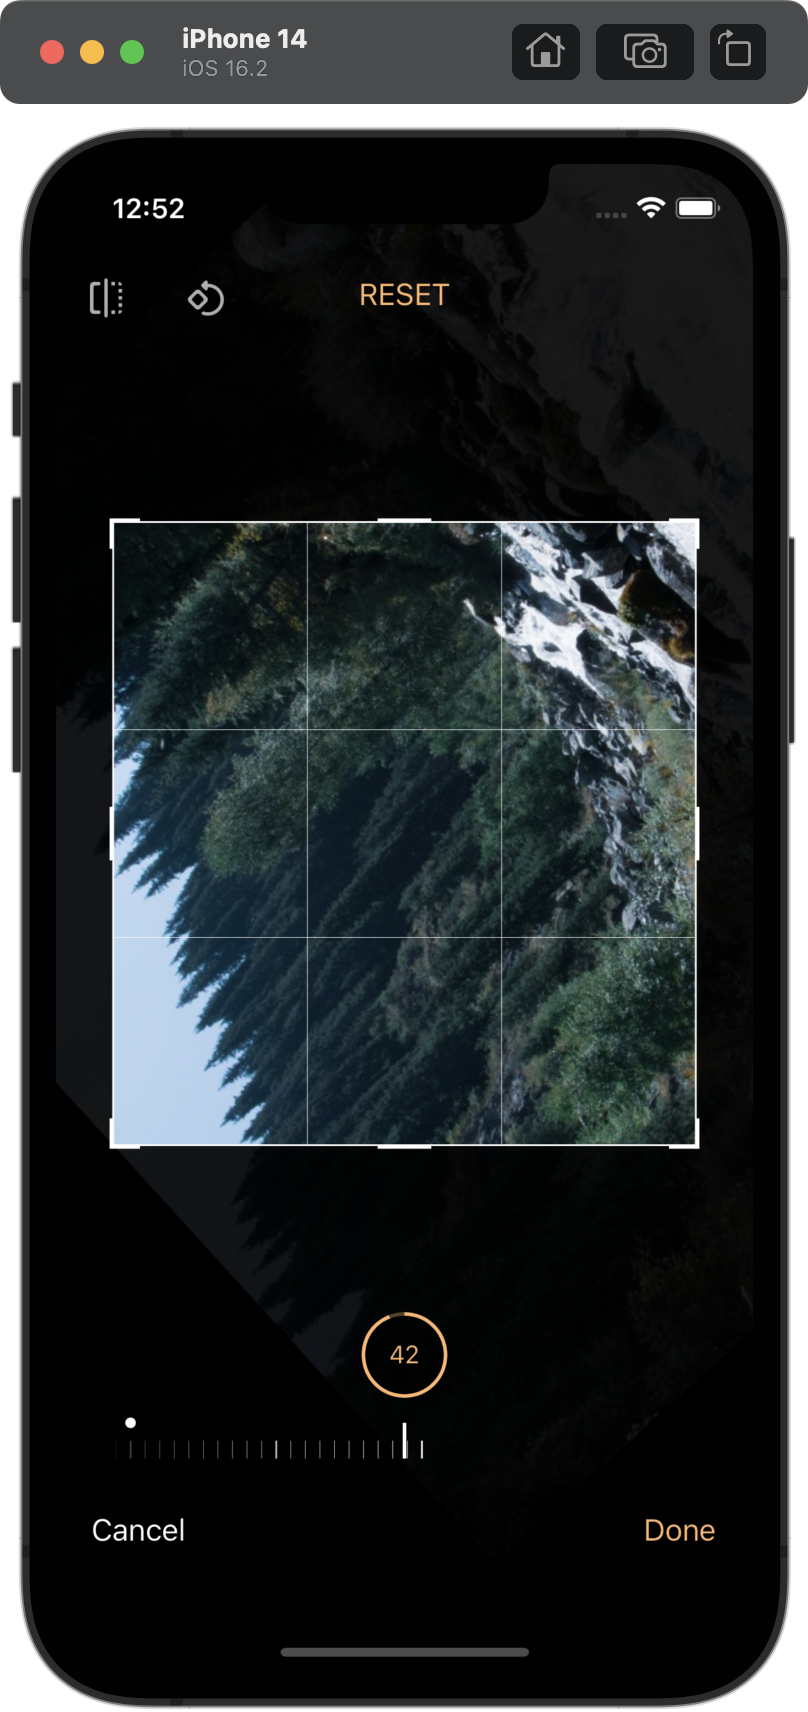
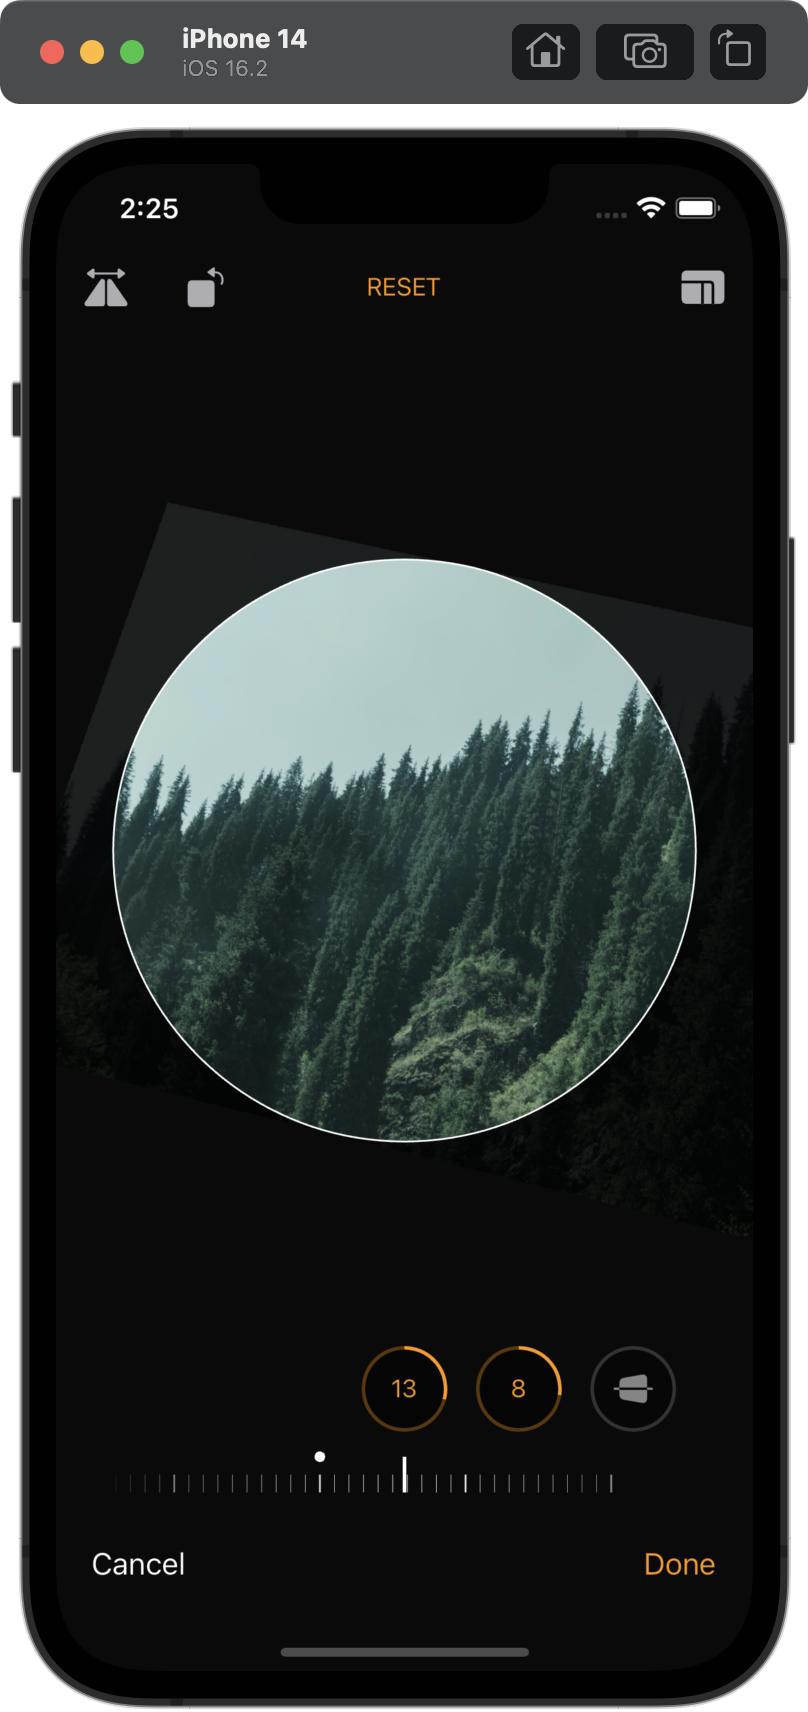
version: 0.1.0

diff --git a/example/lib/main.dart b/example/lib/main.dart
@@ -88,7 +88,7 @@ class _MyHomePageState extends State<MyHomePage> {
             imageProvider: _imageProviders[page],
             heroTag: 'image-$page',
             initialData: _data[page],
-            cropPathFn: starCropShapeFn,
+            cropPathFn: aabbCropShapeFn,
             postProcessFn: (result) async {
               final uiImage = await result.asUiImage;
 

diff --git a/lib/src/widgets/cupertino/toolbar/cupertino_image_aspect_ratio_toolbar.dart b/lib/src/widgets/cupertino/toolbar/cupertino_image_aspect_ratio_toolbar.dart
@@ -219,6 +219,7 @@ class _AspectRatioChipWidget extends StatelessWidget {
           horizontal: 10.0,
           vertical: 2.0,
         ),
+        alignment: Alignment.center,
         child: Text(
           aspectRatio,
           style: TextStyle(

diff --git a/README.md b/README.md
@@ -9,9 +9,10 @@ Big difference of this package from other popular ones (such as `image_cropper`)
 Check out the example at https://kekland.github.io/croppy (you can scroll horizontally there).
 
 <p float="left">
-  <img src="https://github.com/kekland/croppy/raw/master/doc/assets/video.gif" width="200" />
-  <img src="https://github.com/kekland/croppy/raw/master/doc/assets/image1.png" width="200" />
-  <img src="https://github.com/kekland/croppy/raw/master/doc/assets/image3.png" width="200" />
+  <img src="https://github.com/kekland/croppy/raw/master/doc/assets/video.gif" width="160" />
+  <img src="https://github.com/kekland/croppy/raw/master/doc/assets/image1.png" width="160" />
+  <img src="https://github.com/kekland/croppy/raw/master/doc/assets/image2.png" width="160" />
+  <img src="https://github.com/kekland/croppy/raw/master/doc/assets/image3.png" width="160" />
 </p>
 
 ## Features

diff --git a/CHANGELOG.md b/CHANGELOG.md
@@ -1,3 +1,12 @@
+# 0.1.0
+
+* Added custom shapes
+* Added allowed aspect ratios
+* Added supported transformations list
+* Minor design tweaks
+* Better image cropping algorithm (now uses Flutter's Canvas instead of a barebones bilinear interpolation)
+* Bugfixes
+
 # 0.0.4
 
 * Updated the example app
